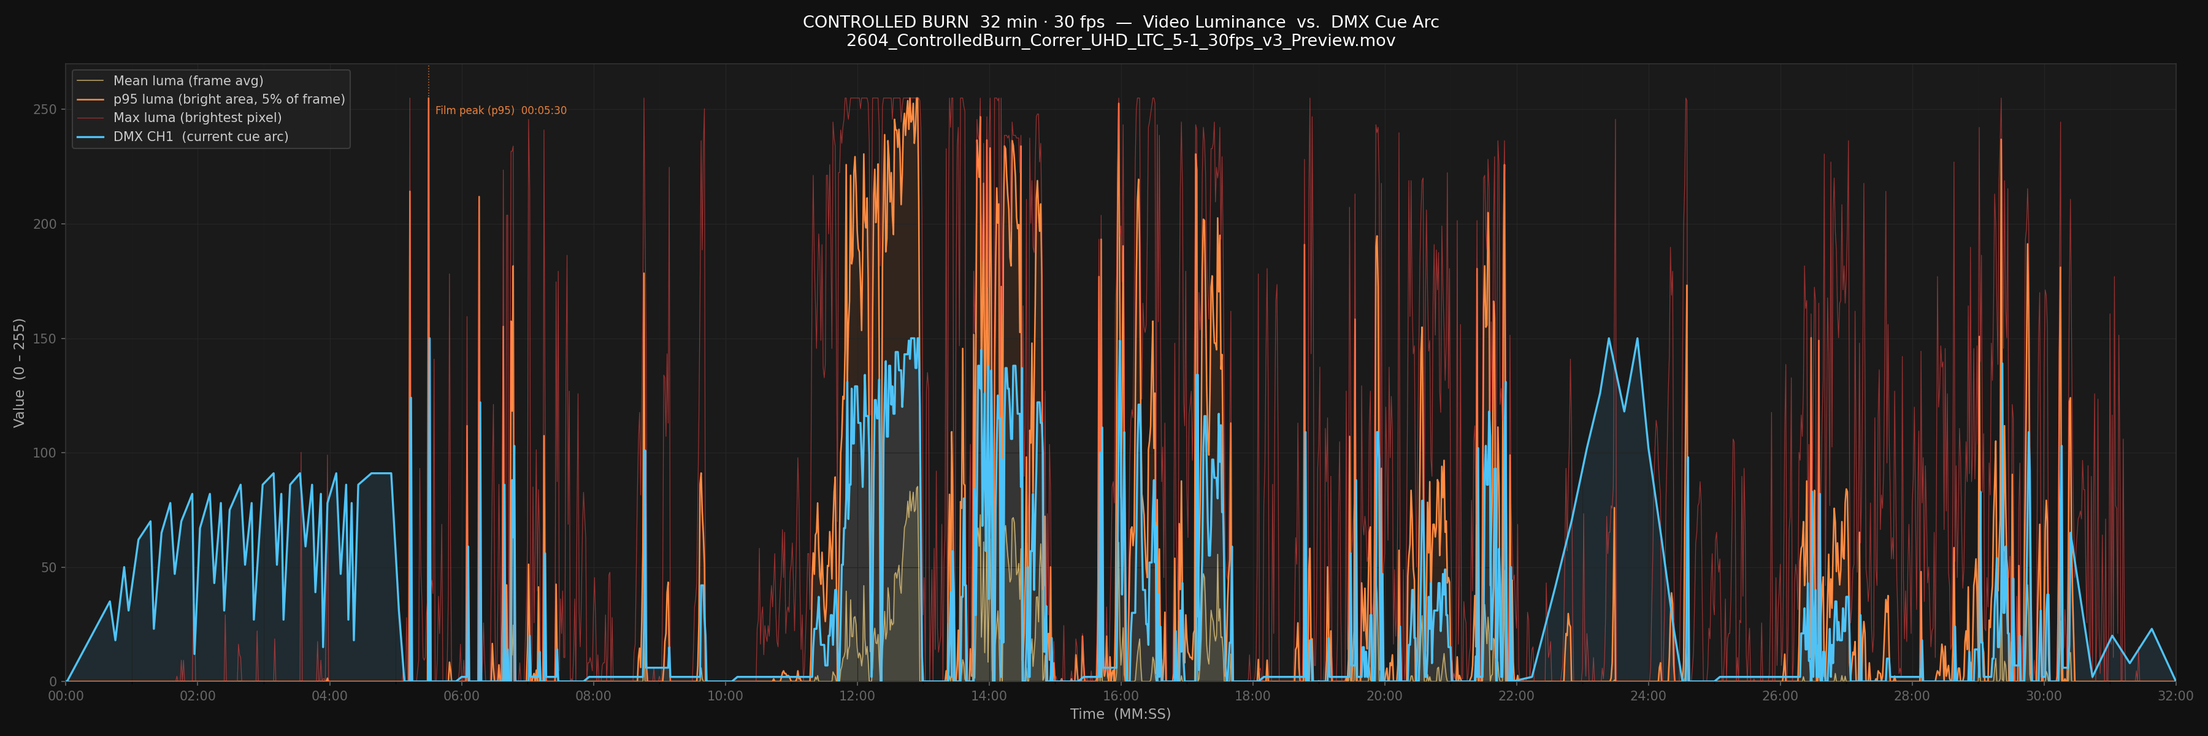
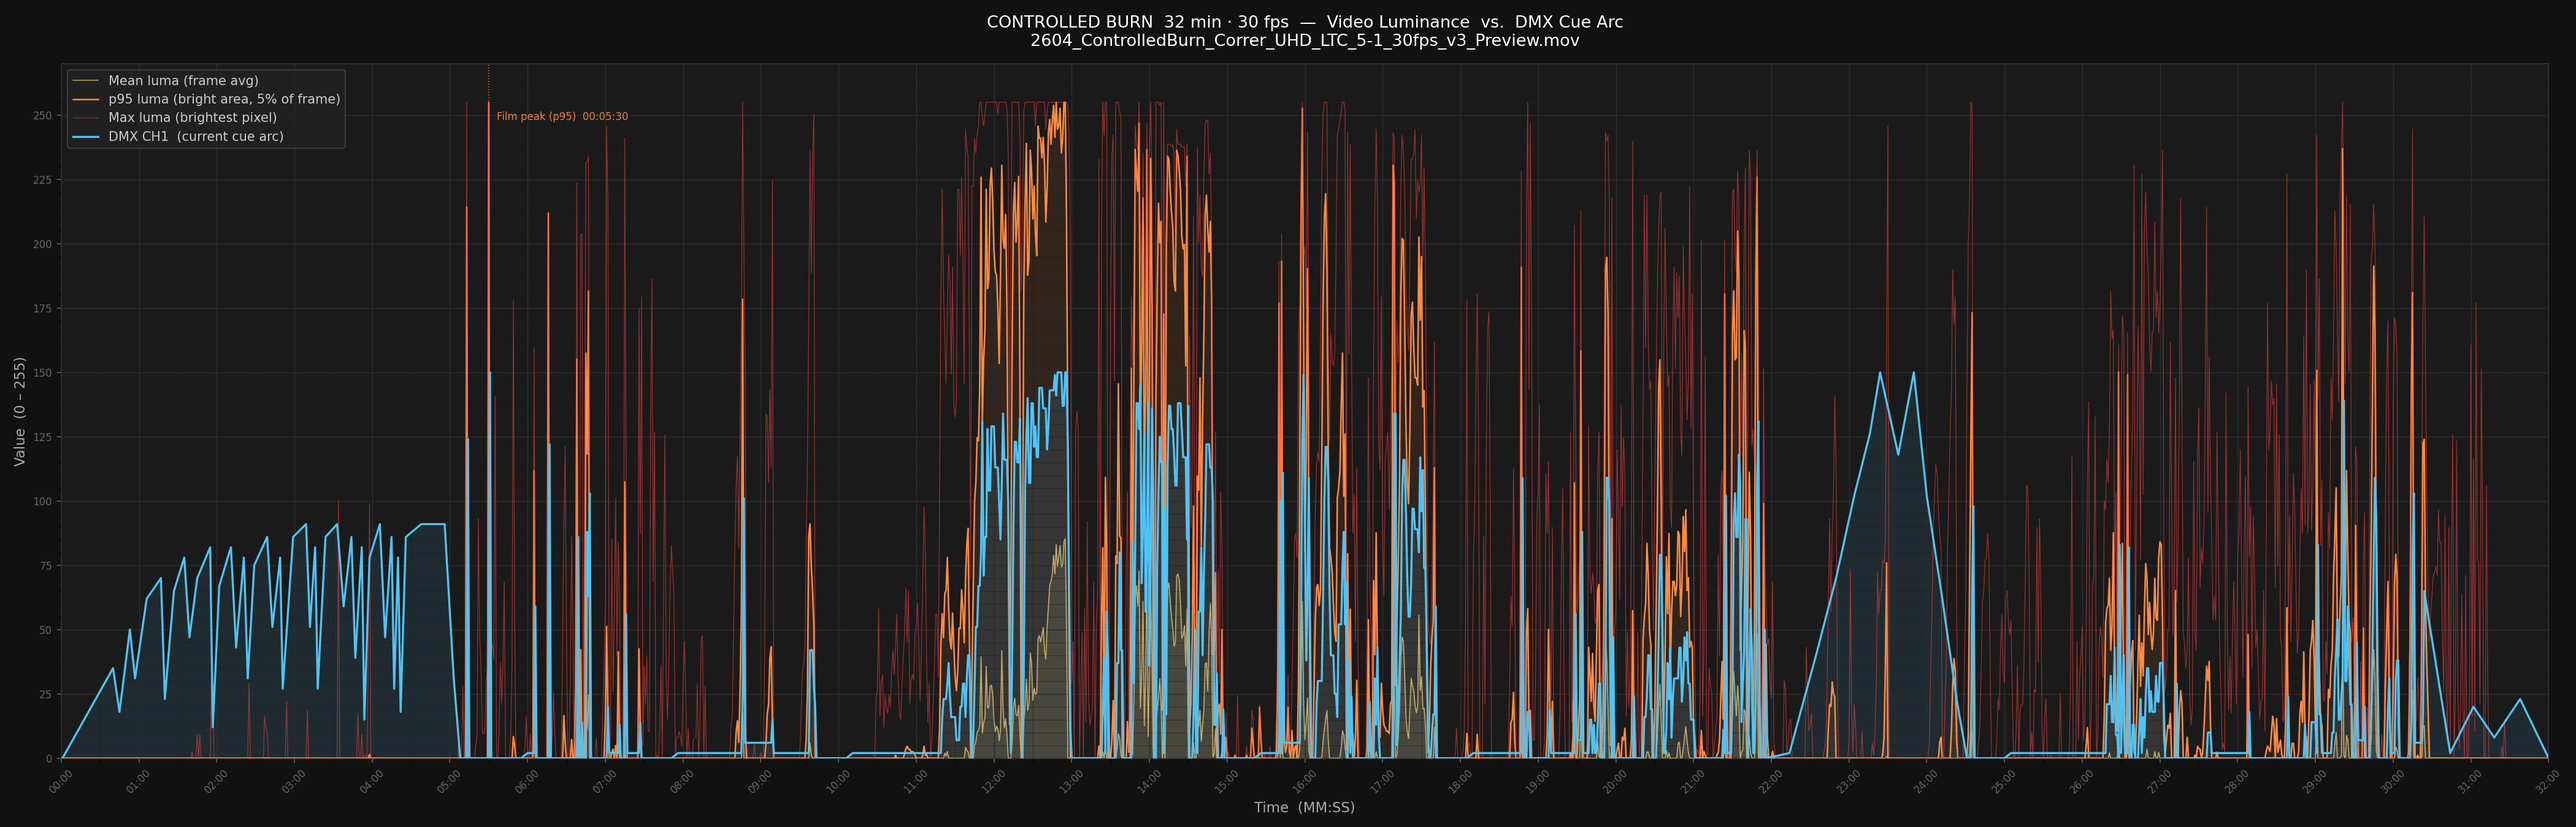
plot: denser grid - x every 1min/30s, y every 25/5 DMX, 28x9 figure

diff --git a/analyze_movie_luma.py b/analyze_movie_luma.py
@@ -247,7 +247,7 @@ def main():
     COL_LUMA = "#f0d080"   # warm gold  — video luma
     COL_DMX  = "#4fc3f7"   # cool blue  — DMX arc
 
-    fig, ax = plt.subplots(figsize=(24, 8))
+    fig, ax = plt.subplots(figsize=(28, 9))
     fig.patch.set_facecolor(BG)
     ax.set_facecolor(AX)
 
@@ -314,10 +314,18 @@ def main():
         return f"{mn:02d}:{s:02d}"
 
     ax.xaxis.set_major_formatter(ticker.FuncFormatter(fmt_mmss))
-    ax.xaxis.set_major_locator(ticker.MultipleLocator(120))   # every 2 min
-    ax.xaxis.set_minor_locator(ticker.MultipleLocator(60))    # every 1 min
-    ax.grid(True,          color="#252525", linewidth=0.6, zorder=0)
-    ax.grid(True, which="minor", color="#1e1e1e", linewidth=0.3, zorder=0)
+    ax.xaxis.set_major_locator(ticker.MultipleLocator(60))    # every 1 min  (labeled)
+    ax.xaxis.set_minor_locator(ticker.MultipleLocator(30))    # every 30 s   (tick only)
+    ax.yaxis.set_major_locator(ticker.MultipleLocator(25))    # every 25 DMX (labeled)
+    ax.yaxis.set_minor_locator(ticker.MultipleLocator(5))     # every 5 DMX  (tick only)
+    # major grid — slightly brighter so 1-min lines are readable
+    ax.grid(True, which="major", color="#2d2d2d", linewidth=0.7, zorder=0)
+    # minor grid — very faint so it doesn't crowd the data
+    ax.grid(True, which="minor", color="#1f1f1f", linewidth=0.3, zorder=0)
+    ax.tick_params(axis="x", which="major", labelsize=8, rotation=45)
+    ax.tick_params(axis="x", which="minor", length=3, labelsize=0)
+    ax.tick_params(axis="y", which="major", labelsize=8)
+    ax.tick_params(axis="y", which="minor", length=3, labelsize=0)
 
     ax.legend(facecolor="#222222", edgecolor="#444444",
               labelcolor="#cccccc", fontsize=10, loc="upper left")
